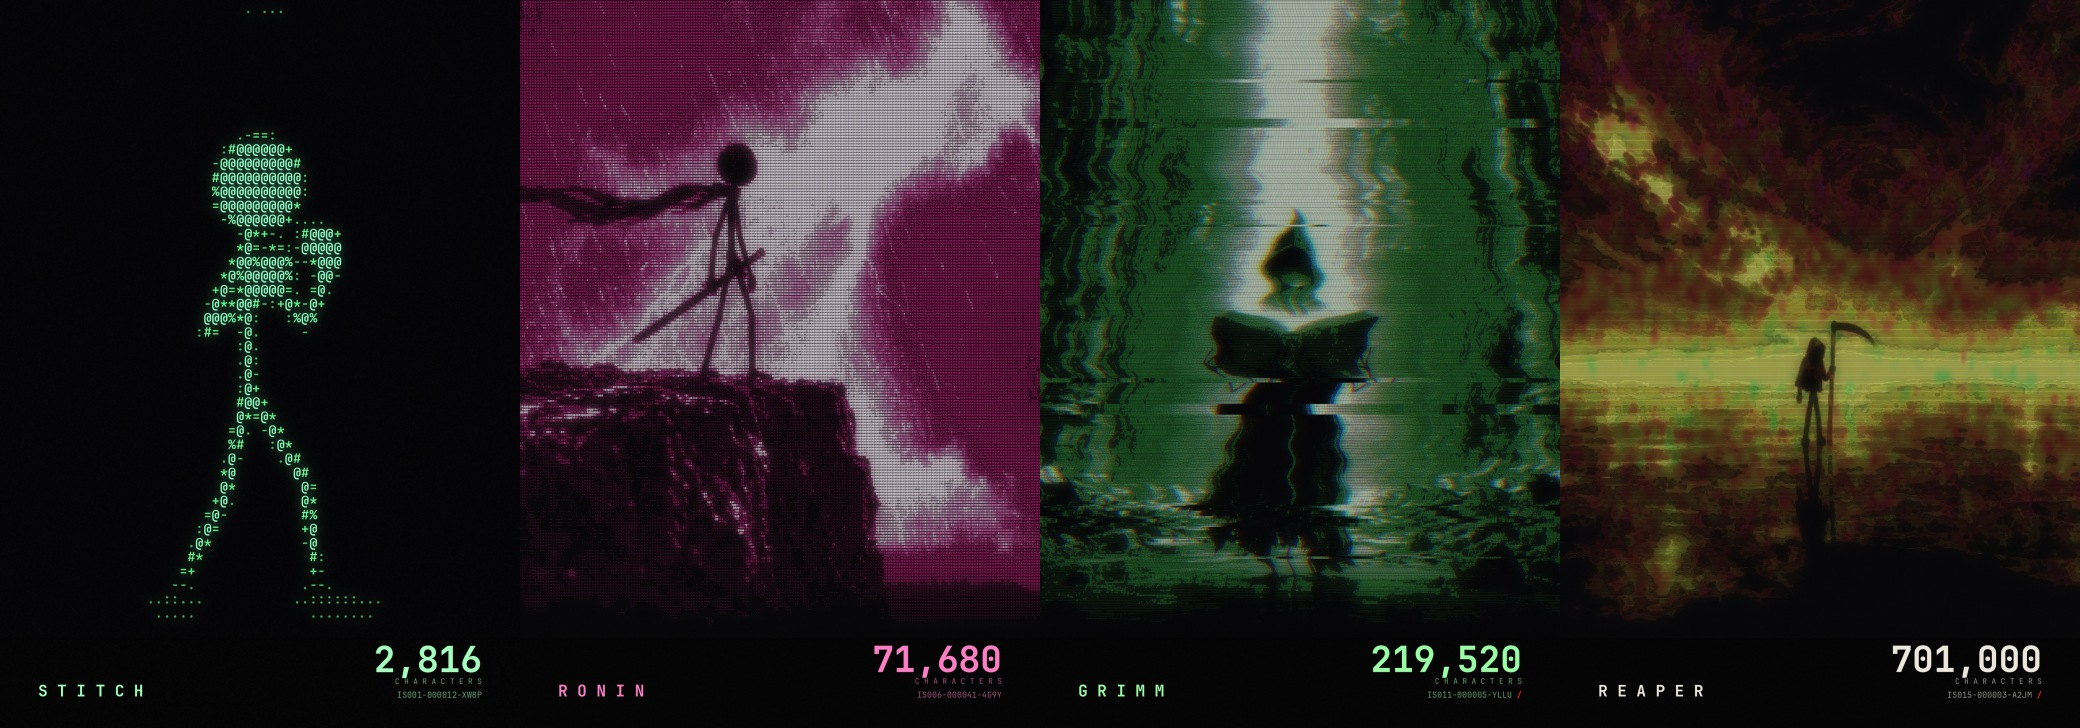
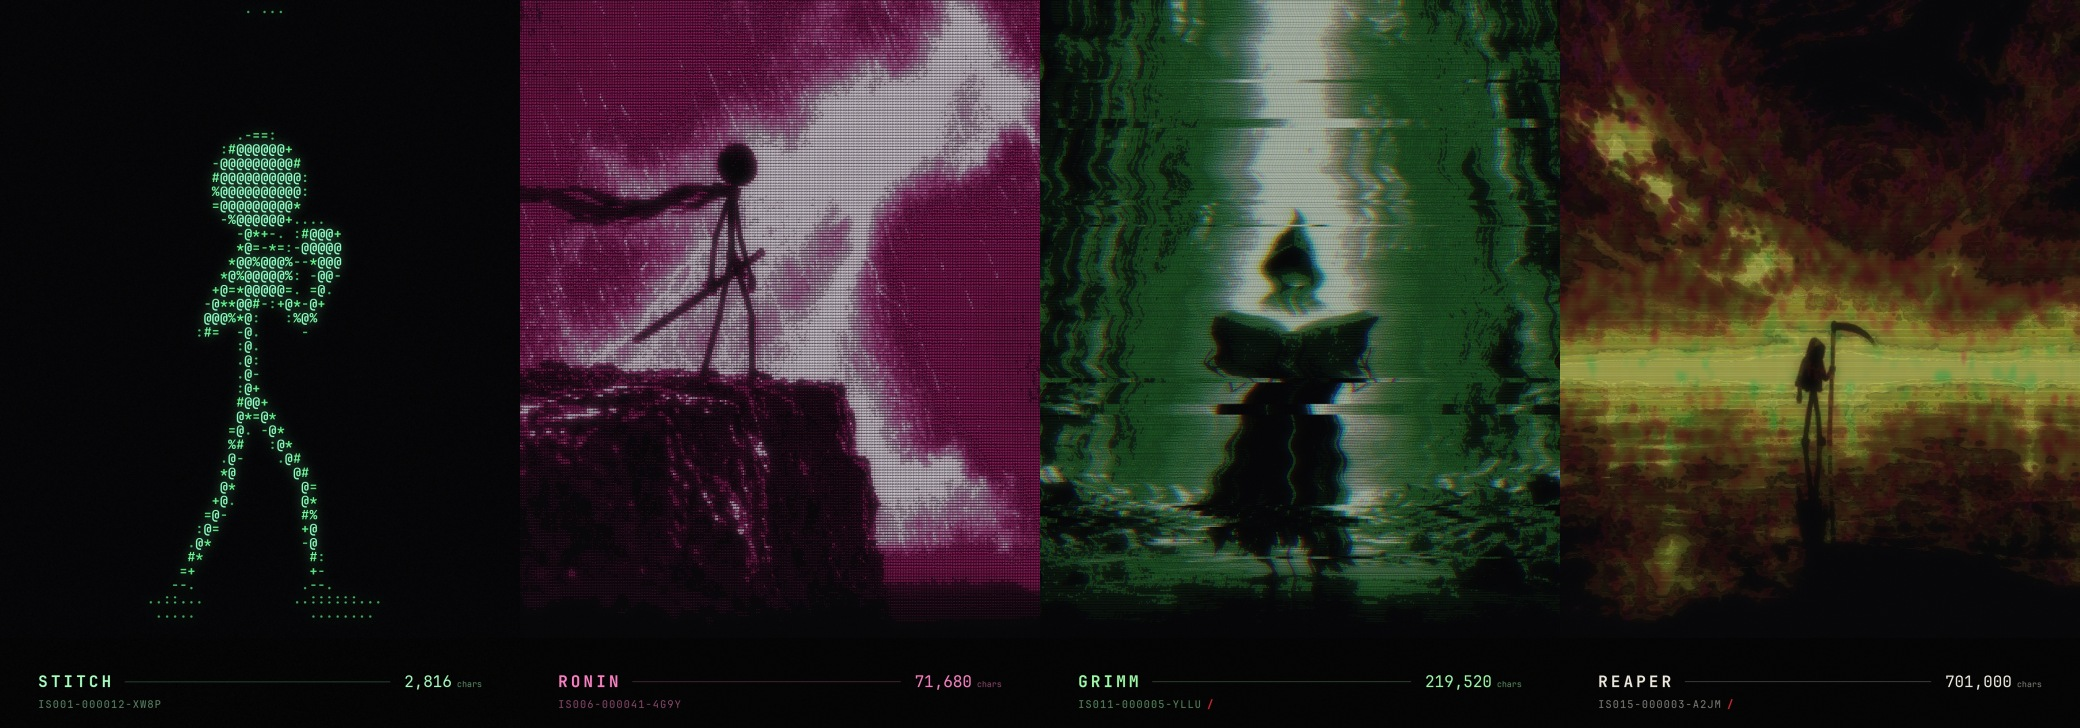
Character count as one quiet line: name, hairline, count, with the ID tiny beneath
Replaces the big number with a spaced CHARACTERS label stacked over the ID.
The type is now a single baseline row (name left, hairline, count with a small
'chars' on the right) and the copy ID in dim small type under the name. Sized
for print: about 5.5 pt for the name and count at 600 dpi. Two alternatives
(count only, centred ledger line) are in the tool.

Claude-Session: https://claude.ai/code/session_01B5R6bTWyYQaC5vMtkxCWhG

diff --git a/stickfist/design-concepts/stick-figures-four/tools/ascii2.py b/stickfist/design-concepts/stick-figures-four/tools/ascii2.py
@@ -60,6 +60,51 @@ def colours(style, t, rows, cols, pal=None, seed=4):
     return np.clip(rgb * 255 * (0.62 + 0.38 * np.clip(t * 1.4, 0, 1))[..., None] + BONE * 0.30 * (t[..., None] ** 3), 0, 255)
 
 
+def spaced(d, x, y, text, font, fill, track, anchor='ls'):
+    """draw text letter by letter with extra tracking (px); returns the width. anchor is the left-baseline of the first glyph"""
+    w = 0
+    for ch in text:
+        d.text((x + w, y), ch, font=font, fill=fill, anchor='ls'); w += d.textlength(ch, font=font) + track
+    return w - track
+
+
+def spaced_w(d, text, font, track):
+    return sum(d.textlength(ch, font=font) for ch in text) + track * (len(text) - 1)
+
+
+def draw_type(im, S, name, code, mark, count, tint, typo='line'):
+    """the card's type. Everything sits on baselines in the clear strip under the picture."""
+    d = ImageDraw.Draw(im); f = lambda p, s: ImageFont.truetype(p, max(6, int(s * S)))
+    dim = tuple(int(x * 0.55) for x in tint); hair = tuple(int(x * 0.34) for x in tint)
+    L, R = 110 * S, (W - 110) * S; red = (224, 32, 44); num = f'{count:,}'
+    NAME = name.upper()
+    if typo == 'line':           # NAME ---------- 2,816 chars   (one line, then the copy ID tiny underneath)
+        fb, fr, fu = f(FONTB, 46), f(FONT, 46), f(FONT, 24); base = (H - 118) * S; tr = 9 * S
+        wn = spaced(d, L, base, NAME, fb, tint, tr)
+        unit = ' chars'; wu = d.textlength(unit, font=fu); wnum = d.textlength(num, font=fr)
+        d.text((R, base), unit, font=fu, fill=dim, anchor='rs'); d.text((R - wu, base), num, font=fr, fill=tint, anchor='rs')
+        x0, x1 = L + wn + 40 * S, R - wu - wnum - 40 * S
+        d.line([(x0, base - 16 * S), (x1, base - 16 * S)], fill=hair, width=max(1, int(2 * S)))
+        fi = f(FONT, 30); y2 = (H - 58) * S; wi = spaced(d, L, y2, code, fi, dim, 3 * S)
+        if mark: d.text((L + wi + 18 * S, y2), mark, font=f(FONTB, 30), fill=red, anchor='ls')
+    elif typo == 'quiet':        # name small on the left, the count alone on the right
+        fb, fr = f(FONTB, 26), f(FONT, 52); base = (H - 92) * S
+        spaced(d, L, base, NAME, fb, tint, 6 * S)
+        d.text((R, base), num, font=fr, fill=tint, anchor='rs')
+        fi = f(FONT, 16); y2 = (H - 56) * S
+        d.text((R, y2), code + ('  ' if mark else ''), font=fi, fill=dim, anchor='rs')
+        if mark: d.text((R, y2), mark, font=f(FONTB, 16), fill=red, anchor='rs')
+    else:                        # ledger: one centred line
+        fb, fr, fi = f(FONTB, 28), f(FONT, 28), f(FONT, 20); base = (H - 86) * S; gap = 34 * S
+        parts = [(NAME, fb, tint, 6 * S), (num, fr, tint, 0), (code, fi, dim, 2 * S)]
+        ws = [spaced_w(d, t, ft, tr) for t, ft, c, tr in parts]
+        wm = d.textlength(' ' + mark, font=fi) if mark else 0
+        x = (W * S - (sum(ws) + gap * 2 + wm)) / 2
+        for (t, ft, c, tr), w in zip(parts, ws):
+            spaced(d, x, base, t, ft, c, tr); x += w + gap
+        if mark: d.text((x - gap + 10 * S, base), mark, font=f(FONTB, 20), fill=red, anchor='ls')
+
+
 def glitch_post(arr, S, seed=9):
     """VHS: tear rows sideways, split the channels, smear, and lay scanlines"""
     h, w, _ = arr.shape; rng = np.random.default_rng(seed)
@@ -79,7 +124,7 @@ def glitch_post(arr, S, seed=9):
     return out
 
 
-def render(art, out, name, code, mark, style, cols, S=1, black=0.05, white=0.9, gamma=0.8, shift=0, glow=0.5, pad=0.0, pal=None, crop=None, thick=0):
+def render(art, out, name, code, mark, style, cols, S=1, black=0.05, white=0.9, gamma=0.8, shift=0, glow=0.5, pad=0.0, pal=None, crop=None, thick=0, typo='line'):
     cols, S, shift = int(cols), int(S), int(shift)
     cw = W * S / cols; chh = cw * ASPECT; rows = int(ART_H * S / chh); count = cols * rows
     img = cv2.imread(art)
@@ -119,19 +164,11 @@ def render(art, out, name, code, mark, style, cols, S=1, black=0.05, white=0.9, 
     rng = np.random.default_rng(3)
     arr += cv2.GaussianBlur(rng.normal(0, 1, arr.shape[:2]).astype(np.float32), (0, 0), 0.7 * S)[..., None] * 0.012
     im = Image.fromarray((np.clip(arr, 0, 1) * 255).astype(np.uint8)); d = ImageDraw.Draw(im)
-    f = lambda p, s: ImageFont.truetype(p, int(s * S))
     pn_ = pal or DEFAULT_PAL[style]
     if style == 'classic': tint = tuple(int(0.55 * c + 0.45 * 255) for c in PALETTES['classic'][pn_])
     elif style in ('duo', 'glitch'): tint = tuple(int(0.55 * c + 0.45 * 255) for c in PALETTES[style][pn_][0])
     else: tint = (236, 231, 220)
-    dim = tuple(int(x * 0.62) for x in tint); R_ = (W - 110) * S
-    num = f'{count:,}'; fn = f(FONTB, 104); nw = d.textlength(num, font=fn)
-    d.text((R_ - nw, (H - 268) * S), num, font=fn, fill=tint)
-    lab = 'C H A R A C T E R S'; fl = f(FONT, 22); d.text((R_ - d.textlength(lab, font=fl), (H - 150) * S), lab, font=fl, fill=dim)
-    fs2 = f(FONT, 24); fm = f(FONTB, 24); mw = d.textlength(mark, font=fm) if mark else 0
-    d.text((R_ - mw - (14 * S if mark else 0) - d.textlength(code, font=fs2), (H - 112) * S), code, font=fs2, fill=dim)
-    if mark: d.text((R_ - mw, (H - 112) * S), mark, font=fm, fill=(224, 32, 44))
-    d.text((110 * S, (H - 138) * S), ' '.join(name.upper()), font=f(FONTB, 46), fill=tint)
+    draw_type(im, S, name, code, mark, count, tint, typo)
     if out.lower().endswith('.png'): im.save(out)
     else: im.save(out, quality=94)
     return count
@@ -139,5 +176,5 @@ def render(art, out, name, code, mark, style, cols, S=1, black=0.05, white=0.9, 
 
 if __name__ == '__main__':
     a = sys.argv
-    kw = {k: (v if k == 'pal' else float(v)) for k, v in (s.split('=') for s in a[9:])}
+    kw = {k: (v if k in ('pal', 'typo') else float(v)) for k, v in (s.split('=') for s in a[9:])}
     n = render(a[1], a[2], a[3], a[4], a[5], a[6], a[7], a[8], **kw); print('ok', a[2], f'{n:,}')

diff --git a/stickfist/design-concepts/stick-figures-four/README.md b/stickfist/design-concepts/stick-figures-four/README.md
@@ -10,3 +10,9 @@
 Rule: every figure is a stick figure (round head, thin line limbs); the world around it is lit and grained like a photograph.
 Base images: Figma GPT Image 2.5 Sunburst (sources/). Tool: tools/ascii2.py. New options this round: `crop` (zoom on the subject),
 `thick` (thicken thin strokes so a small figure survives the grid), `pal` (colour palette).
+
+## The type (one quiet line)
+
+`NAME ----------------- 71,680 chars`, with the copy ID tiny underneath and its rarity cuts in red. No big number, no label.
+`typo='line'` in tools/ascii2.py (alternatives: `quiet` = count only, `ledger` = one centred line).
+Sizes at 600 dpi: name and count 46 px (about 5.5 pt), unit 24 px, copy ID 30 px (about 3.6 pt).
